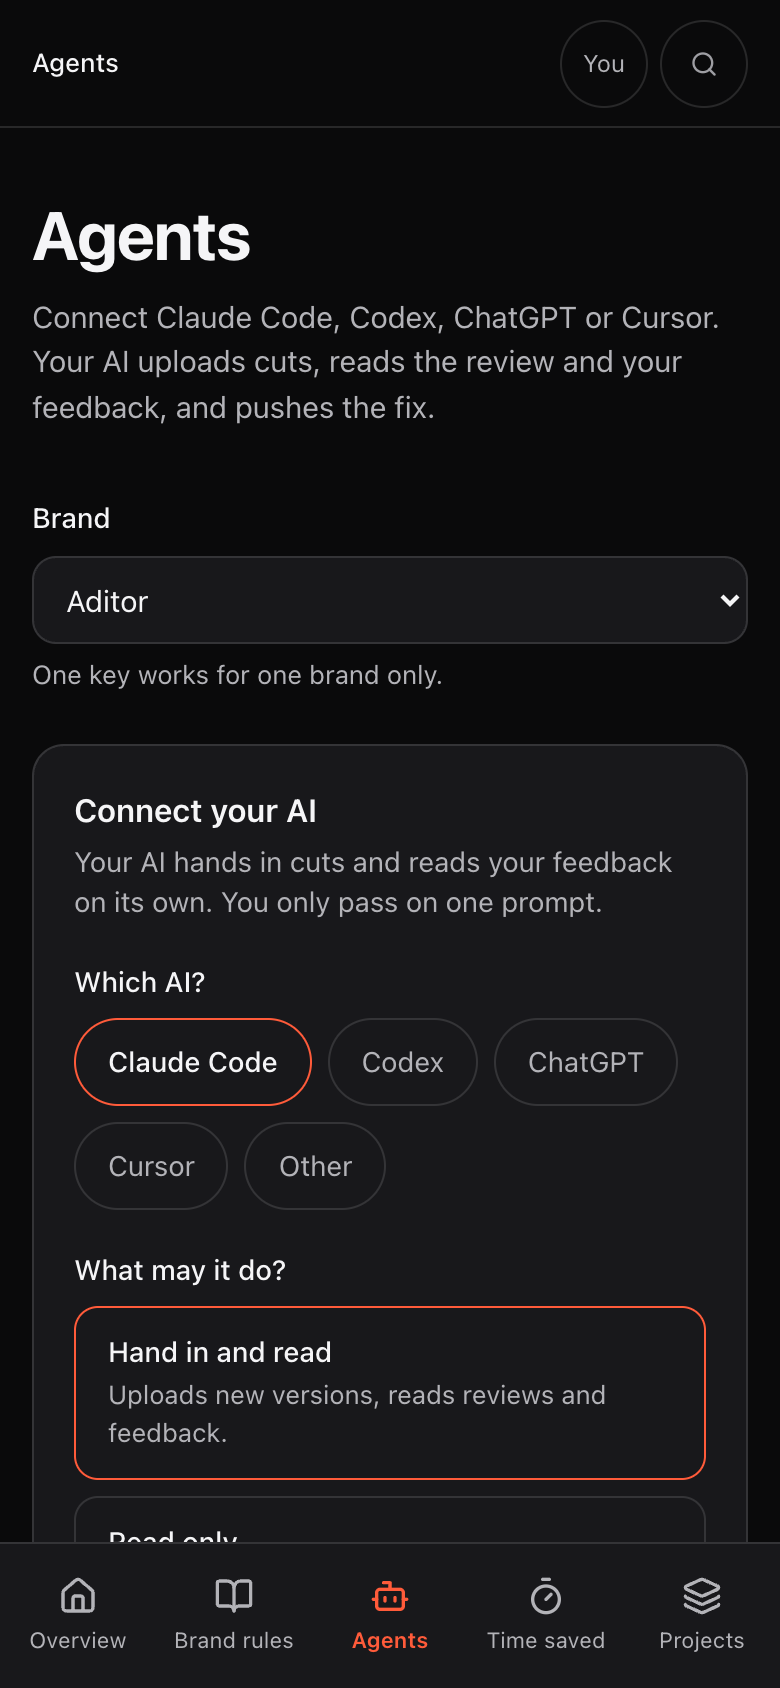
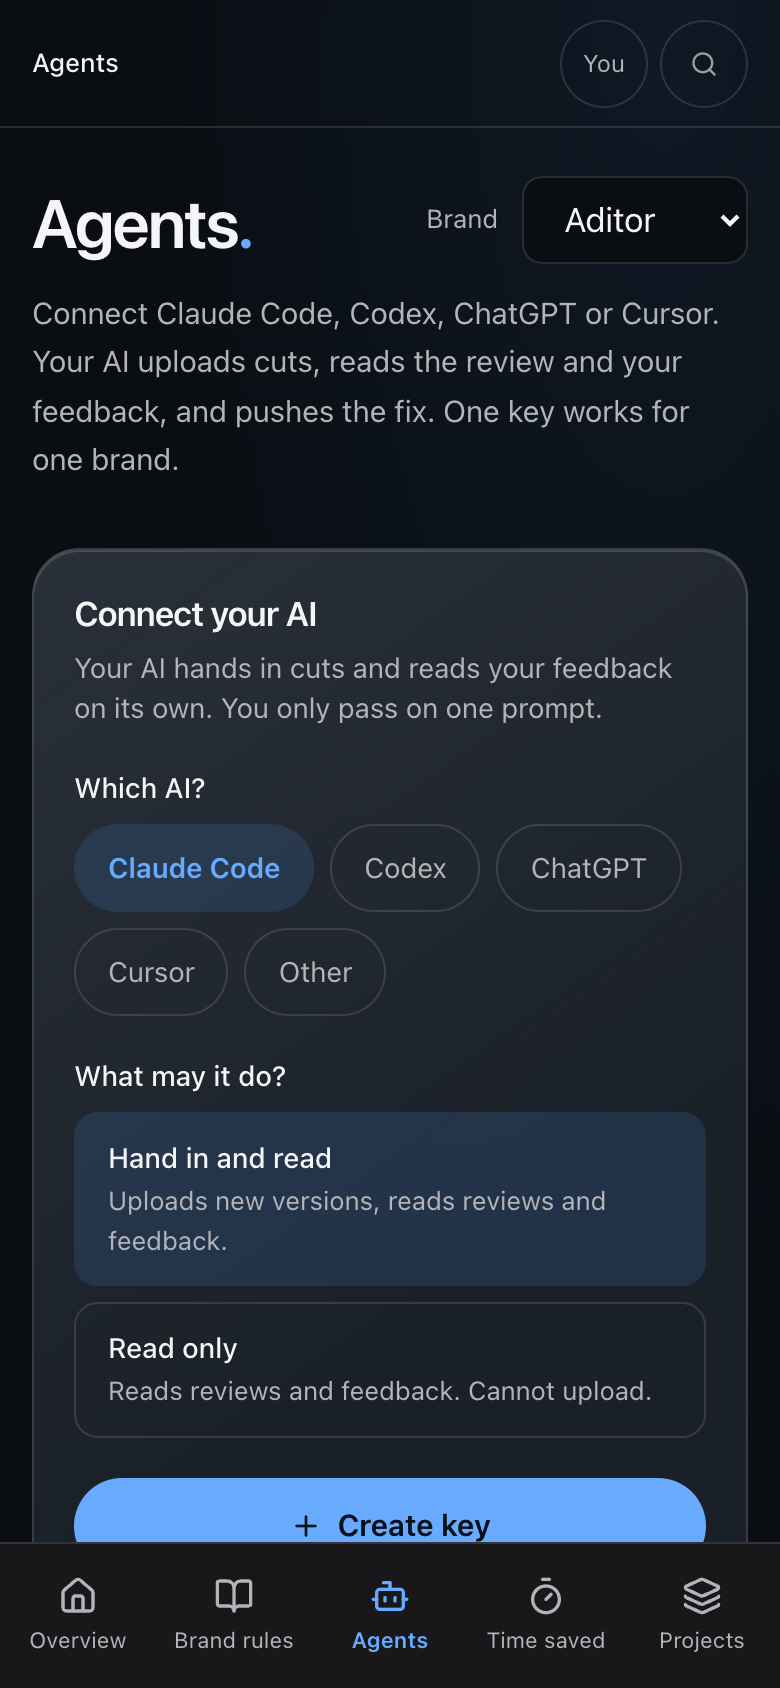
fix(agents): Agents page in the platform design (blue glass, Title., playbook cards) (#139)
Alan 07.11.: 'das sieht aber nicht wie der rest der plattform aus'. Same frame
as Overview and Brand rules: owner-workspace accent, 1320px column, brand
picker top right, playbook-surface cards, selection as tinted fill (no
accent outline), connected AIs as a right-hand column on wide screens.

diff --git a/apps/web/components/agents/connect-agent.tsx b/apps/web/components/agents/connect-agent.tsx
@@ -37,7 +37,7 @@ function CopyButton({ text, label, primary }: { text: string; label: string; pri
     <>
       <button type="button" onClick={copy}
         className={primary
-          ? 'press inline-flex h-11 w-full items-center justify-center gap-2 rounded-full bg-accent px-5 text-sm font-semibold text-text-inverse hover:bg-accent-hover sm:w-auto'
+          ? 'press inline-flex h-12 w-full items-center justify-center gap-2 rounded-full bg-accent px-5 text-[0.9375rem] font-semibold text-text-inverse hover:bg-accent-hover sm:w-auto'
           : 'press inline-flex min-h-11 items-center gap-2 rounded-full px-4 text-sm font-medium text-text-primary hover:bg-bg-hover'}>
         {copied ? <Check size={16} /> : <Copy size={16} />}{copied ? 'Copied' : label}
       </button>
@@ -62,11 +62,11 @@ function KeyCard({ projectId, onCreated }: { projectId: string; onCreated: () =>
   }
   const extra = made ? setupLine(made.program, made.agent_key) : null
   const radio = 'peer sr-only'
-  const pill = 'press flex min-h-11 cursor-pointer items-center rounded-full border border-border px-4 text-sm text-text-secondary hover:bg-bg-hover peer-checked:border-accent peer-checked:bg-accent/10 peer-checked:font-medium peer-checked:text-text-primary peer-focus-visible:ring-2 peer-focus-visible:ring-text-secondary'
+  const pill = 'press flex min-h-11 cursor-pointer items-center rounded-full border border-border px-4 text-sm text-text-secondary hover:bg-bg-hover peer-checked:border-transparent peer-checked:bg-accent-muted peer-checked:font-semibold peer-checked:text-accent peer-focus-visible:ring-2 peer-focus-visible:ring-text-secondary'
 
   return (
-    <section aria-labelledby="connect-ai-h" className="rounded-2xl border border-border bg-bg-secondary p-5">
-      <h2 id="connect-ai-h" className="text-base font-semibold text-text-primary">Connect your AI</h2>
+    <section aria-labelledby="connect-ai-h" className="playbook-surface p-5 sm:p-6">
+      <h2 id="connect-ai-h" className="text-[1.0625rem] font-semibold tracking-tight text-text-primary">Connect your AI</h2>
       <p className="mt-1 text-sm text-text-secondary">Your AI hands in cuts and reads your feedback on its own. You only pass on one prompt.</p>
 
       {!made ? (
@@ -88,7 +88,7 @@ function KeyCard({ projectId, onCreated }: { projectId: string; onCreated: () =>
               {SCOPES.map(s => (
                 <label key={s.value} className="block">
                   <input type="radio" name="ai-scope" value={s.value} checked={scope === s.value} onChange={() => setScope(s.value)} className={radio} />
-                  <span className="press block min-h-11 cursor-pointer rounded-xl border border-border px-4 py-3 hover:bg-bg-hover peer-checked:border-accent peer-checked:bg-accent/10 peer-focus-visible:ring-2 peer-focus-visible:ring-text-secondary">
+                  <span className="press block min-h-11 cursor-pointer rounded-xl border border-border px-4 py-3 hover:bg-bg-hover peer-checked:border-transparent peer-checked:bg-accent-muted peer-focus-visible:ring-2 peer-focus-visible:ring-text-secondary">
                     <span className="block text-sm font-medium text-text-primary">{s.label}</span>
                     <span className="mt-0.5 block text-[0.8125rem] text-text-secondary">{s.hint}</span>
                   </span>
@@ -98,7 +98,7 @@ function KeyCard({ projectId, onCreated }: { projectId: string; onCreated: () =>
           </fieldset>
           <div>
             <button type="button" onClick={create} disabled={busy}
-              className="press inline-flex h-11 w-full items-center justify-center gap-2 rounded-full bg-accent px-5 text-sm font-semibold text-text-inverse hover:bg-accent-hover disabled:opacity-60 sm:w-auto">
+              className="press inline-flex h-12 w-full items-center justify-center gap-2 rounded-full bg-accent px-5 text-[0.9375rem] font-semibold text-text-inverse hover:bg-accent-hover disabled:opacity-60 sm:w-auto">
               {busy ? <Loader2 size={16} className="animate-spin" /> : <Plus size={16} />}Create key
             </button>
             <p className="mt-2 text-[0.8125rem] text-text-secondary">A new key for the same AI replaces its old one.</p>
@@ -110,7 +110,7 @@ function KeyCard({ projectId, onCreated }: { projectId: string; onCreated: () =>
             <span className="font-medium">Key for {PROGRAM_LABEL[made.program]} is ready.</span>{' '}
             <span className="text-text-secondary">It is shown only now. Paste this into {PROGRAM_LABEL[made.program] === 'Other' ? 'your AI' : PROGRAM_LABEL[made.program]}:</span>
           </p>
-          <div className="rounded-xl border border-border bg-bg-primary p-3">
+          <div className="rounded-2xl border border-border bg-bg-secondary p-3">
             <pre data-testid="agent-prompt" className="whitespace-pre-wrap font-mono [overflow-wrap:anywhere] text-[0.9375rem] leading-relaxed text-text-primary">{agentPrompt(made.agent_key)}</pre>
           </div>
           <div className="flex flex-wrap items-center gap-2">
@@ -120,7 +120,7 @@ function KeyCard({ projectId, onCreated }: { projectId: string; onCreated: () =>
           {extra && (
             <div className="pt-2">
               <p className="text-[0.8125rem] font-medium text-text-secondary">{extra.label}</p>
-              <pre className="mt-1 whitespace-pre-wrap rounded-xl [overflow-wrap:anywhere] border border-border bg-bg-primary p-3 font-mono text-[0.8125rem] leading-relaxed text-text-primary">{extra.text}</pre>
+              <pre className="mt-1 whitespace-pre-wrap rounded-2xl [overflow-wrap:anywhere] border border-border bg-bg-secondary p-3 font-mono text-[0.8125rem] leading-relaxed text-text-primary">{extra.text}</pre>
               <CopyButton text={extra.text} label="Copy" />
             </div>
           )}
@@ -160,7 +160,7 @@ function PairingCard({ projectId }: { projectId: string }) {
   }
 
   return (
-    <details className="group rounded-2xl border border-border bg-bg-secondary px-5">
+    <details className="group playbook-surface px-5 sm:px-6">
       <summary className="flex min-h-14 cursor-pointer items-center text-sm font-medium text-text-primary">Pair with a code instead</summary>
       <div className="pb-5">
       <p className="text-sm text-text-secondary">The key never shows up in a chat. The code works once, for 15 minutes.</p>
@@ -181,17 +181,17 @@ function PairingCard({ projectId }: { projectId: string }) {
             <p className="text-sm tabular-nums text-text-secondary" role="timer">Expires in {left!.label}</p>
           </div>
           <p className="text-sm text-text-secondary">Tell Claude Code this line. It needs the <a href={KIT_URL} target="_blank" rel="noreferrer" className="font-medium text-text-primary underline underline-offset-2">AI Builder Starter Kit</a>.</p>
-          <div className="rounded-xl border border-border bg-bg-primary p-3">
+          <div className="rounded-2xl border border-border bg-bg-secondary p-3">
             <pre className="whitespace-pre-wrap break-all font-mono text-[0.9375rem] leading-relaxed text-text-primary">{line}</pre>
           </div>
           <button type="button" onClick={copy}
-            className="press inline-flex h-11 w-full items-center justify-center gap-2 rounded-full bg-accent px-5 text-sm font-semibold text-text-inverse hover:bg-accent-hover sm:w-auto">
+            className="press inline-flex h-12 w-full items-center justify-center gap-2 rounded-full bg-accent px-5 text-[0.9375rem] font-semibold text-text-inverse hover:bg-accent-hover sm:w-auto">
             {copied ? <Check size={16} /> : <Copy size={16} />}{copied ? 'Copied' : 'Copy'}
           </button>
           <details className="text-[0.8125rem] text-text-secondary">
             <summary className="min-h-11 cursor-pointer content-center font-medium hover:text-text-primary">Codex, Hermes or Claude without the kit</summary>
             <p className="mb-2">Run the first line in the agent&apos;s terminal, then tell the agent the second line.</p>
-            <pre className="whitespace-pre-wrap break-all rounded-xl border border-border bg-bg-primary p-3 font-mono leading-relaxed text-text-primary">{mcpBlock}</pre>
+            <pre className="whitespace-pre-wrap break-all rounded-2xl border border-border bg-bg-secondary p-3 font-mono leading-relaxed text-text-primary">{mcpBlock}</pre>
           </details>
         </div>
       )}
@@ -247,12 +247,15 @@ export function ConnectAgent({ projectId }: { projectId: string }) {
   }
 
   return (
-    <div className="space-y-6">
-      <KeyCard projectId={projectId} onCreated={() => mutate()} />
-      <PairingCard projectId={projectId} />
+    <div className="grid min-w-0 items-start gap-6 xl:grid-cols-[minmax(0,1fr)_360px]">
+      <div className="min-w-0 space-y-6">
+        <KeyCard projectId={projectId} onCreated={() => mutate()} />
+        <PairingCard projectId={projectId} />
+      </div>
+      <div className="min-w-0 space-y-6">
 
-      <section aria-labelledby="agents-h" className="rounded-2xl border border-border bg-bg-secondary p-5">
-        <h2 id="agents-h" className="text-base font-semibold text-text-primary">Connected AIs</h2>
+      <section aria-labelledby="agents-h" className="playbook-surface p-5 sm:p-6">
+        <h2 id="agents-h" className="text-[1.0625rem] font-semibold tracking-tight text-text-primary">Connected AIs</h2>
         {error ? <p role="alert" className="mt-3 text-sm text-text-secondary">Could not load agents. <button className="min-h-11 font-medium text-accent" onClick={() => mutate()}>Retry</button></p>
           : !agents ? <div className="skeleton-shimmer mt-3 h-16 animate-shimmer rounded-xl" />
           : active.length === 0 ? <p className="mt-3 text-sm text-text-secondary">No AI connected yet. Create a key above.</p>
@@ -260,7 +263,7 @@ export function ConnectAgent({ projectId }: { projectId: string }) {
         {revokeError && <p role="alert" className="mt-2 text-sm text-status-error">{revokeError}</p>}
       </section>
 
-      <section className="rounded-2xl border border-border bg-bg-secondary p-5">
+      <section className="playbook-surface p-5 sm:p-6">
         <div className="flex items-center justify-between gap-4">
           <div>
             <label id="may-approve-l" htmlFor="may-approve" className="text-sm font-medium text-text-primary">Agents may approve</label>
@@ -273,6 +276,7 @@ export function ConnectAgent({ projectId }: { projectId: string }) {
         </div>
         {toggleError && <p role="alert" className="mt-2 text-sm text-status-error">{toggleError}</p>}
       </section>
+      </div>
     </div>
   )
 }

diff --git a/apps/web/app/(dashboard)/agents/page.tsx b/apps/web/app/(dashboard)/agents/page.tsx
@@ -24,31 +24,29 @@ function Agents() {
   const wanted = params.get('project')
   const projectId = brands.find(p => p.id === wanted)?.id ?? brands[0]?.id
 
+  // Same frame as Overview and Brand rules: wide column, "Title." heading, brand picker top right.
   return (
-    <div className="page-in mx-auto w-full max-w-2xl px-4 pb-24 pt-8 sm:px-8 sm:pt-12">
-      <h1 className="text-[34px] font-bold leading-tight tracking-[-0.02em] text-text-primary">Agents</h1>
-      <p className="mt-2 text-[15px] text-text-secondary">Connect Claude Code, Codex, ChatGPT or Cursor. Your AI uploads cuts, reads the review and your feedback, and pushes the fix.</p>
+    <div className="mx-auto w-full max-w-[1320px] px-4 pb-12 pt-6 sm:px-8 lg:px-12 lg:pt-10">
+      <div className="flex flex-wrap items-end justify-between gap-4">
+        <h1 className="text-[2.125rem] font-semibold leading-tight tracking-[-0.035em]">Agents<span className="text-accent">.</span></h1>
+        {brands.length > 1 && projectId && (
+          <label className="flex min-w-0 max-w-full items-center gap-3 text-[0.8125rem] text-text-secondary"><span>Brand</span>
+            <select value={projectId} onChange={e => router.replace(`/agents?project=${e.target.value}`)} className="field h-11 min-w-0 max-w-[240px]" aria-label="Brand">
+              {brands.map(p => <option key={p.id} value={p.id}>{p.name}</option>)}
+            </select>
+          </label>
+        )}
+      </div>
+      <p className="mt-3 max-w-2xl text-[0.9375rem] leading-relaxed text-text-secondary">Connect Claude Code, Codex, ChatGPT or Cursor. Your AI uploads cuts, reads the review and your feedback, and pushes the fix. One key works for one brand.</p>
 
       {error ? (
-        <p role="alert" className="mt-8 text-sm text-text-secondary">Could not load your brands. <button className="min-h-11 font-medium text-accent" onClick={() => mutate()}>Retry</button></p>
+        <div role="alert" className="playbook-surface mt-8 p-5">Could not load your brands. <button type="button" className="min-h-11 px-2 font-medium text-accent" onClick={() => mutate()}>Retry</button></div>
       ) : !projects ? (
-        <div className="skeleton-shimmer mt-8 h-64 animate-shimmer rounded-2xl" />
+        <div className="skeleton-shimmer mt-8 h-64 animate-shimmer rounded-3xl" />
       ) : !projectId ? (
-        <p className="mt-8 text-sm text-text-secondary">You need a brand you own before an AI can join it.</p>
+        <p className="playbook-surface mt-8 p-8 text-text-secondary">You need a brand you own before an AI can join it.</p>
       ) : (
-        <div className="mt-8 space-y-6">
-          {brands.length > 1 && (
-            <div>
-              <label htmlFor="agent-brand" className="text-sm font-medium text-text-primary">Brand</label>
-              <select id="agent-brand" value={projectId} onChange={e => router.replace(`/agents?project=${e.target.value}`)}
-                className="mt-2 block h-11 w-full rounded-xl border border-border bg-bg-secondary px-3 text-[15px] text-text-primary sm:w-80">
-                {brands.map(p => <option key={p.id} value={p.id}>{p.name}</option>)}
-              </select>
-              <p className="mt-1.5 text-[0.8125rem] text-text-secondary">One key works for one brand only.</p>
-            </div>
-          )}
-          <ConnectAgent key={projectId} projectId={projectId} />
-        </div>
+        <div className="mt-8"><ConnectAgent key={projectId} projectId={projectId} /></div>
       )}
     </div>
   )

diff --git a/apps/web/app/(dashboard)/layout.tsx b/apps/web/app/(dashboard)/layout.tsx
@@ -59,7 +59,7 @@ export default function DashboardLayout({
   if (setupRoute) return <main className="owner-workspace min-h-screen bg-bg-primary"><CampaignBoundary>{content}</CampaignBoundary></main>;
 
   return (
-    <div className={cn("flex h-screen overflow-hidden bg-bg-primary", ["/home", "/rules", "/handin"].includes(pathname) && "owner-workspace")}>
+    <div className={cn("flex h-screen overflow-hidden bg-bg-primary", ["/home", "/rules", "/agents", "/handin"].includes(pathname) && "owner-workspace")}>
       <Sidebar
         collapsed={sidebarCollapsed}
         onToggle={() => setSidebarCollapsed((c) => !c)}
